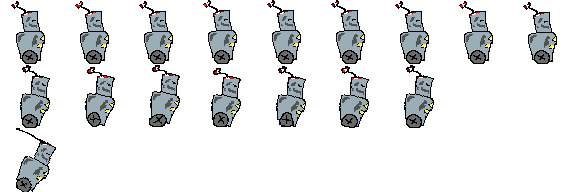
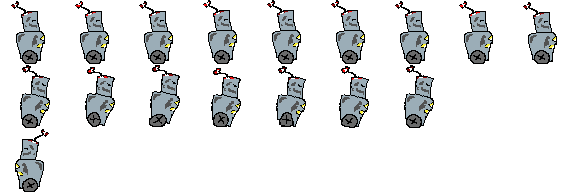
Fixed wall grab

Changed region(s): [[0.0, 0.6562, 0.0938, 1.0]]

diff --git a/obj/player.go b/obj/player.go
@@ -39,6 +39,10 @@ const (
 	maxSpeedY      = 18.0
 	// rope adjust speed (pixels per physics step)
 	ropeAdjustSpeed = 8.0
+	// double-jump tuned values: set a consistent upward velocity and
+	// a small horizontal impulse so the double-jump feels impactful at speed
+	doubleJumpVelocity     = -14.0
+	doubleJumpHorizImpulse = 2.0
 )
 
 // setState helper switches states and calls Enter.
@@ -56,6 +60,11 @@ func (p *Player) setState(s playerState) {
 	case stateRunning:
 		if p.animRun != nil {
 			p.anim = p.animRun
+			p.anim.Reset()
+		}
+	case stateWallGrab:
+		if p.animWallGrab != nil {
+			p.anim = p.animWallGrab
 			p.anim.Reset()
 		}
 	default:
@@ -146,7 +155,24 @@ type doubleJumpingState struct{}
 func (doubleJumpingState) Name() string { return "doublejump" }
 func (doubleJumpingState) Enter(p *Player) {
 	fmt.Println("entered double jumping state")
-	p.body.ApplyImpulseAtLocalPoint(cp.Vector{X: 0, Y: jumpImpulse}, cp.Vector{})
+	// Zero out vertical velocity first so the impulse cleanly reverses
+	// downward motion and feels weighty, then apply a vertical impulse.
+	if p.body != nil {
+		v := p.body.Velocity()
+		// zero Y
+		p.body.SetVelocity(v.X, 0)
+		// apply vertical impulse (use existing jumpImpulse constant)
+		p.body.ApplyImpulseAtLocalPoint(cp.Vector{X: 0, Y: jumpImpulse}, cp.Vector{})
+		// small horizontal nudge based on input direction
+		if p.Input != nil && p.Input.MoveX != 0 {
+			p.body.ApplyImpulseAtLocalPoint(cp.Vector{X: doubleJumpHorizImpulse * float64(p.Input.MoveX), Y: 0}, cp.Vector{})
+		}
+		p.VelocityY = float32(jumpImpulse)
+	} else {
+		// non-physics path: zero then set velocity to impulse
+		p.VelocityY = 0
+		p.VelocityY = float32(jumpImpulse)
+	}
 }
 func (doubleJumpingState) Exit(p *Player) {}
 func (doubleJumpingState) HandleInput(p *Player) {
@@ -228,21 +254,17 @@ func (w *wallGrabState) HandleInput(p *Player) {
 	if p.Input.JumpPressed {
 		// horizontal push-off impulse
 		if w.wallS == WALL_LEFT {
-			p.body.ApplyImpulseAtLocalPoint(cp.Vector{X: 2, Y: 0}, cp.Vector{})
+			p.facingRight = false
+			p.body.ApplyImpulseAtLocalPoint(cp.Vector{X: 4, Y: 0}, cp.Vector{})
 		} else if w.wallS == WALL_RIGHT {
-			p.body.ApplyImpulseAtLocalPoint(cp.Vector{X: -2, Y: 0}, cp.Vector{})
+			p.facingRight = true
+			p.body.ApplyImpulseAtLocalPoint(cp.Vector{X: -4, Y: 0}, cp.Vector{})
 		}
 		p.setState(stateJumping)
 		return
 	}
 }
 func (w *wallGrabState) OnPhysics(p *Player) {
-	if w.wallS == WALL_LEFT {
-		p.facingRight = true
-	} else if w.wallS == WALL_RIGHT {
-		p.facingRight = false
-	}
-
 	// while grabbing, clamp vertical movement; if using physics body adjust body velocity
 	if float64(w.elapsed) < ebiten.ActualTPS()/2 {
 		v := p.body.Velocity()

diff --git a/game.go b/game.go
@@ -88,14 +88,16 @@ func (g *Game) Update() error {
 
 	g.collisionWorld.Update()
 	g.input.Update()
+
+	// perform physics step early so collision/contact flags are available
+	// to the player's Update/OnPhysics logic in the same frame.
+	g.collisionWorld.Step(1.0)
+
 	g.player.Update()
 
 	cx := float64(g.player.X + float32(g.player.Width)/2.0)
 	cy := float64(g.player.Y + float32(g.player.Height)/2.0)
 	g.camera.Update(cx, cy)
-
-	// perform physics step then handle transitions based on the player's new position
-	g.collisionWorld.Step(1.0)
 
 	// handle level transitions: if player overlaps a transition rect, load target level
 	if g.level != nil && g.player != nil {
